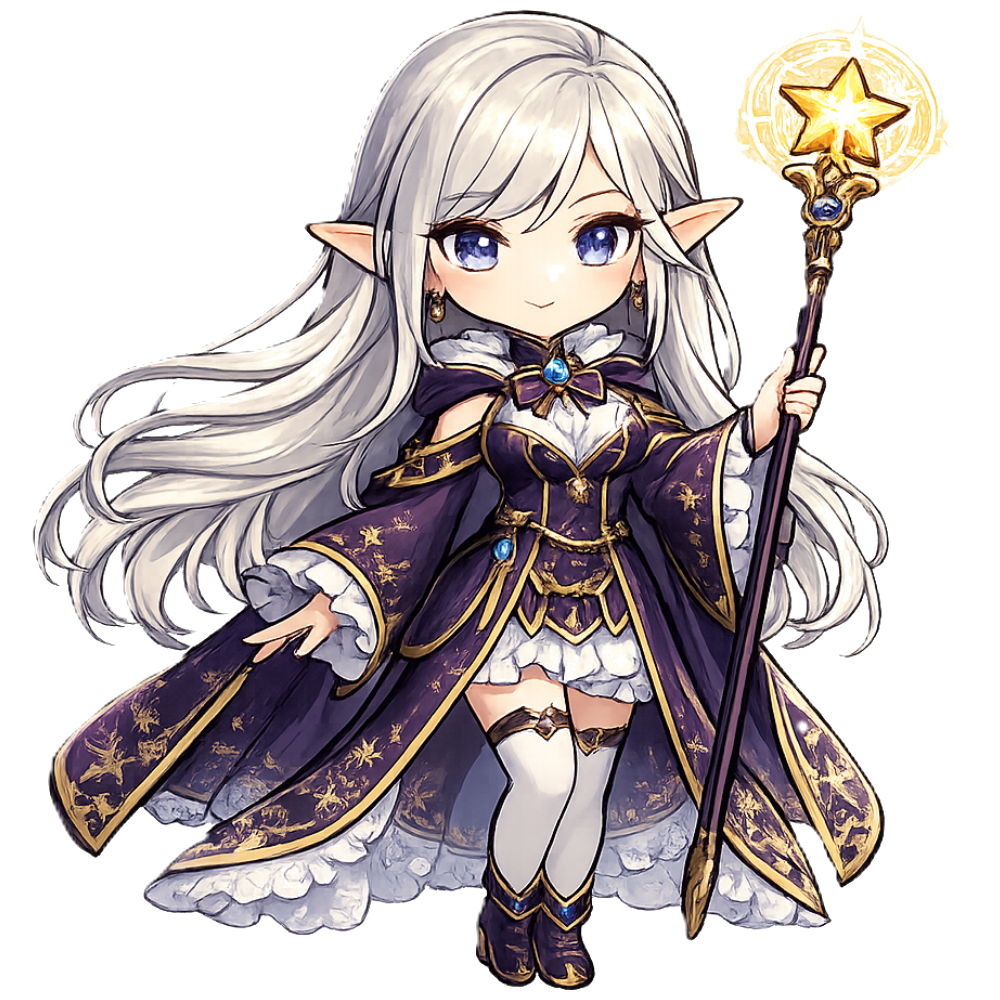
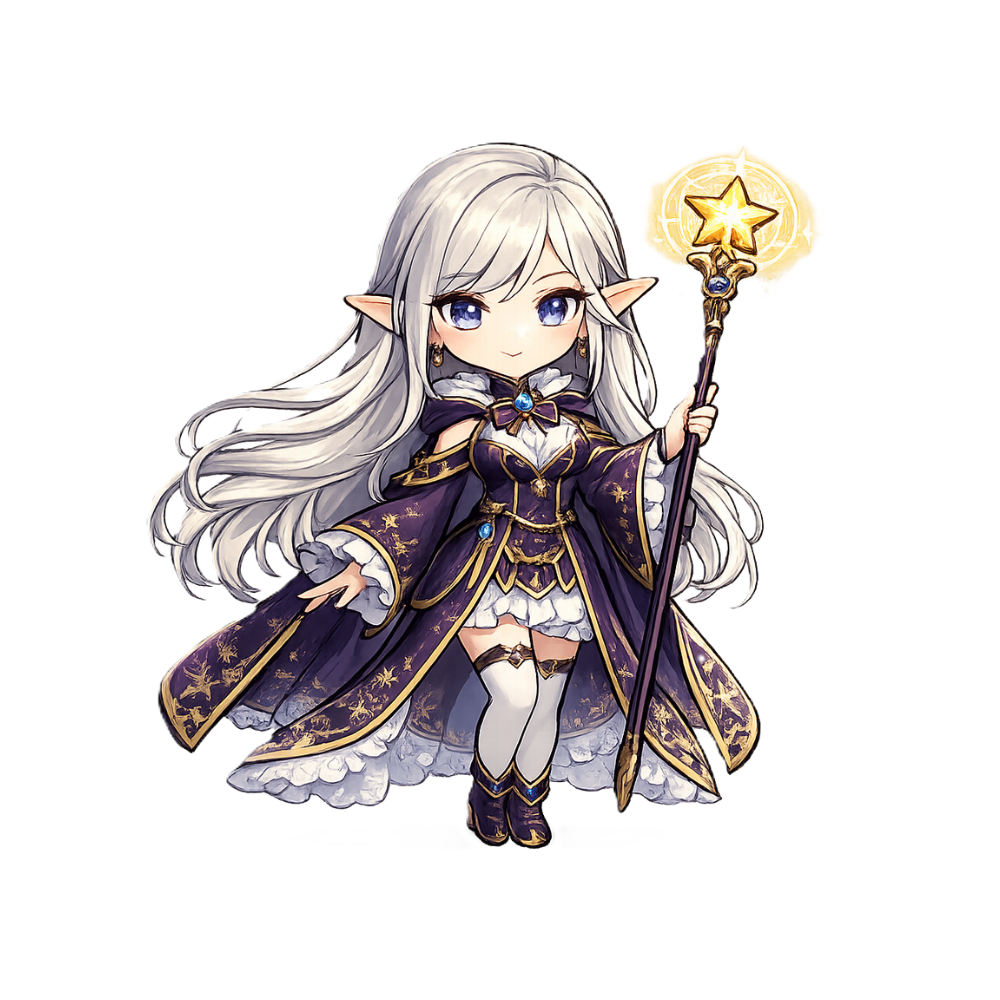
revert: キャラ画像を正常版に復元・align-itemsをflex-startに戻す

diff --git a/index.html b/index.html
@@ -260,7 +260,7 @@
       letter-spacing: .04em;
     }
     .shindan-feature__body {
-      display: flex; align-items: flex-end; gap: 32px;
+      display: flex; align-items: flex-start; gap: 32px;
     }
     .shindan-feature__text {
       flex: 1; min-width: 0;
